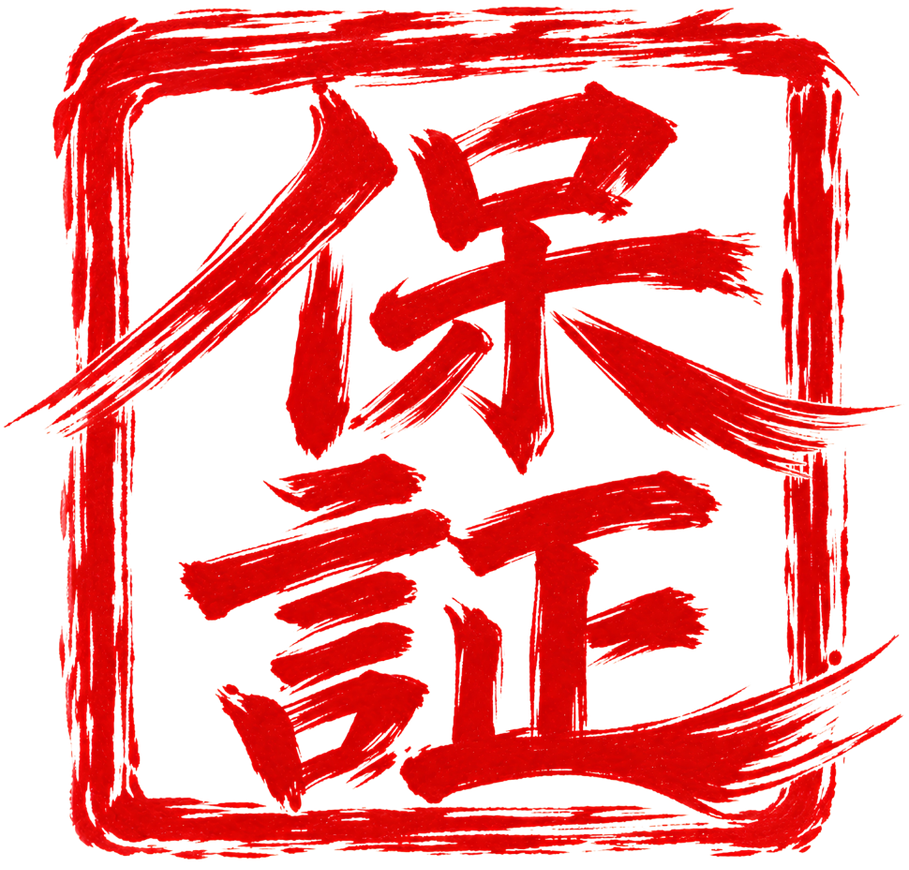
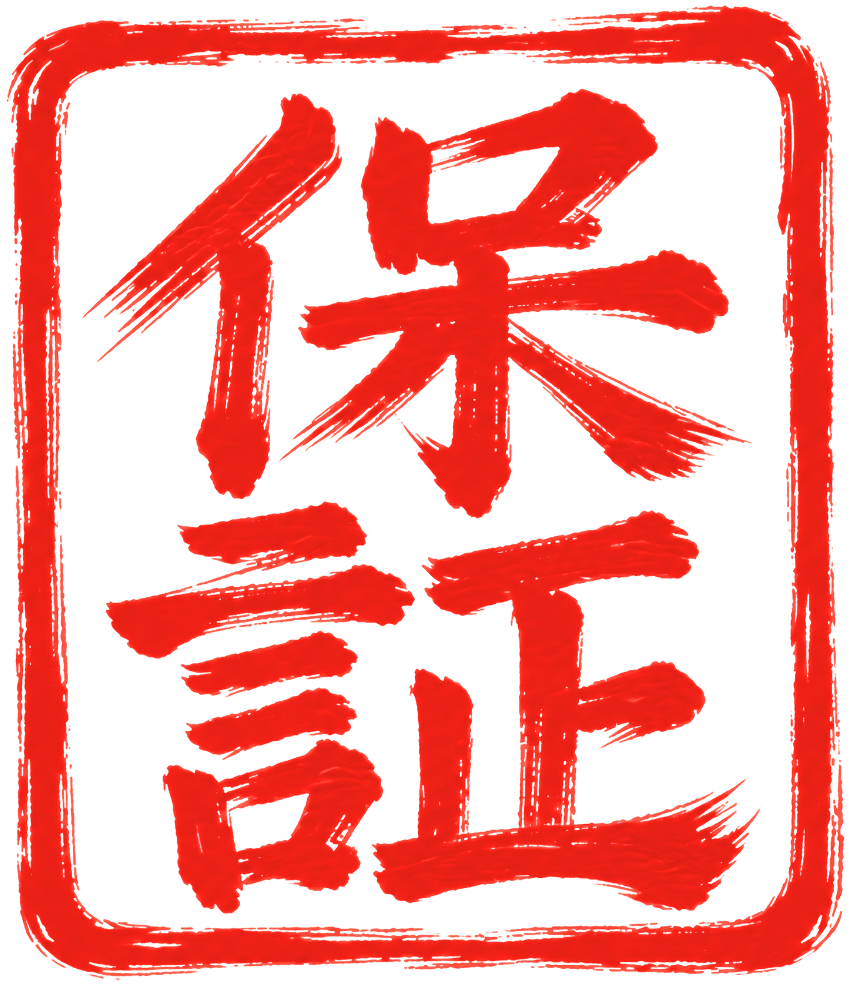
fix: vision mision layout on deployment

diff --git a/wp-content/themes/hosho-digital/style.css b/wp-content/themes/hosho-digital/style.css
@@ -18063,7 +18063,7 @@ body.page-company .company-direction__item > .eyebrow {
 body.page-company .company-direction__item h3 {
 	max-width: none;
 	margin: 2rem 0 0;
-	font-size: 2rem;
+	font-size: 2.25rem;
 	line-height: 1.3;
 }
 
@@ -24548,5 +24548,11 @@ body.page-company .company-direction__item > .eyebrow {
   body.page-company .company-direction__item:first-child {
     border-right: 0;
     border-bottom: 1px solid rgba(255, 255, 255, .24);
+  }
+}
+
+@media (min-width: 981px) {
+  body.page-company .company-direction__item:last-child {
+    padding-inline-start: calc(clamp(2.5rem, 5vw, 5.25rem) + 1.5rem);
   }
 }
